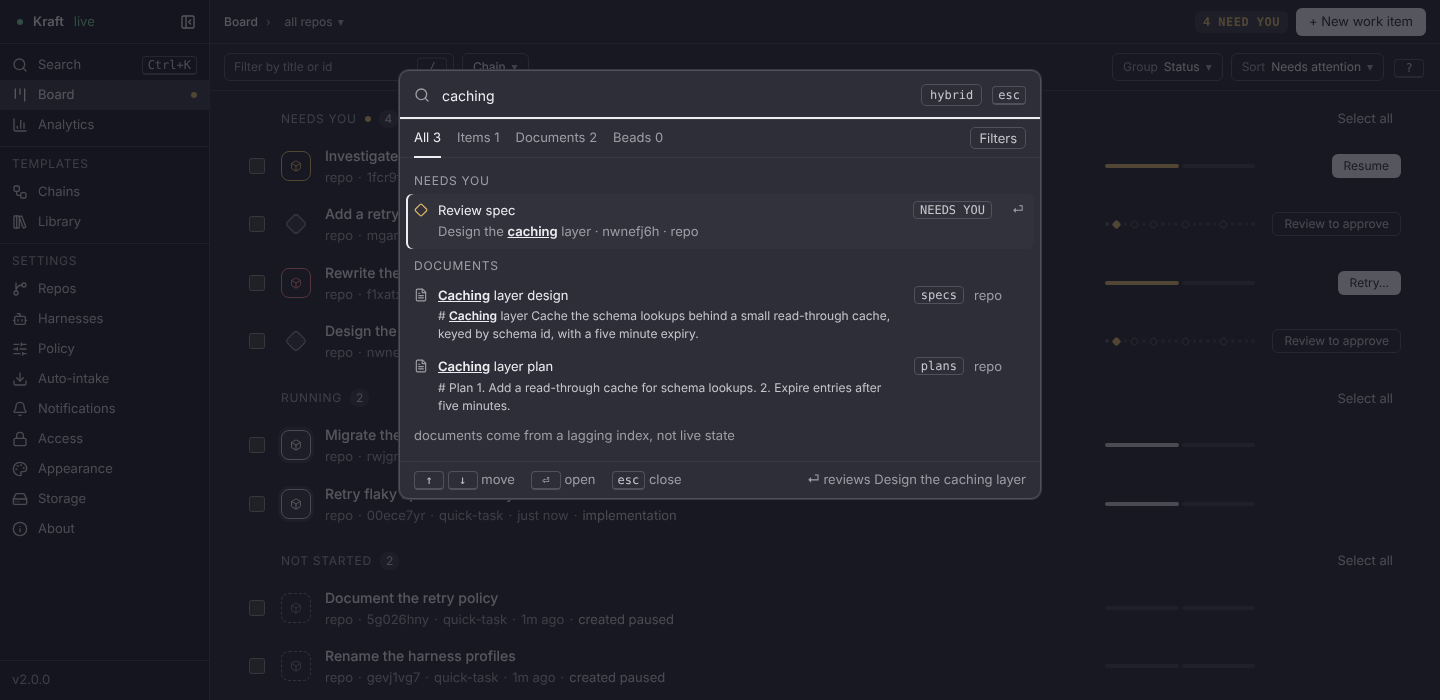
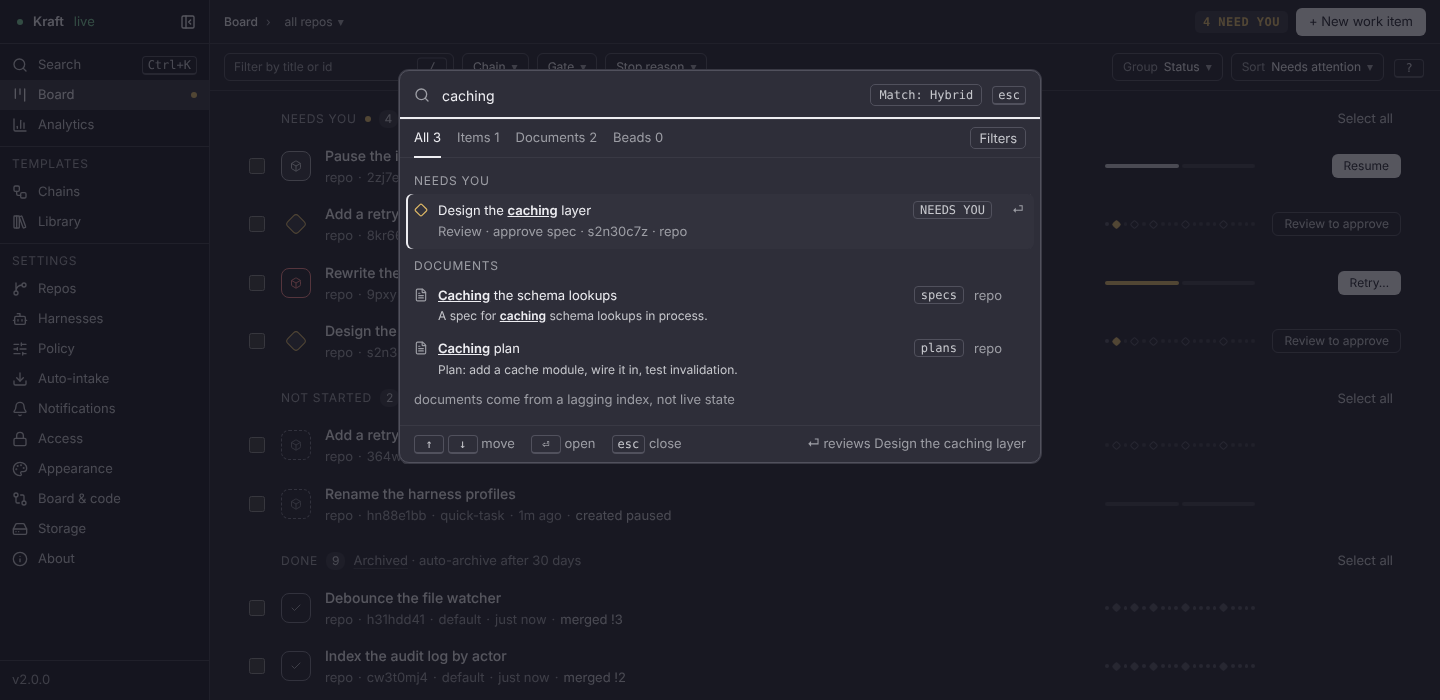
Retake the README and docs screenshots (third pass)
Claude-Session: https://claude.ai/code/session_01Hhz1yYCneaNnHUKepbRJvy

diff --git a/README.md b/README.md
@@ -31,10 +31,10 @@ proposes, and rehearses them with `--verify`.
 [What's new in 2.0](https://kraft-sdlc.dev/next/get-started/whats-new)
 has the rest, and what to check before you upgrade from 1.4.
 
-![The Kraft board in the dark graphite look: work items grouped by Needs you (a paused item with Resume, a failed one with Retry, and two waiting at a gate, each with its one button), Running, Not started, and Done, the unstarted items marked created paused, with a Select all link on every group and a ? shortcuts button in the toolbar](https://raw.githubusercontent.com/itsOmidKarami/kraft/main/.github/assets/board.png)
+![The Kraft board in the dark graphite look: filters for chain, gate and stop reason above work items grouped by Needs you (a paused item with Resume, a failed one with Retry, and two waiting at a gate, each with its one button), Running and Not started, the unstarted items marked created paused, with a Select all link on every group and a ? shortcuts button in the toolbar](https://raw.githubusercontent.com/itsOmidKarami/kraft/main/.github/assets/board.png)
 
 - **Gates where a human decides.** Kraft pauses at a spec, a plan, or a merge
-  request for your approval; reject with a note and the node that wrote it
+  request for your approval; request changes with a note and the node that wrote it
   tries again.
 - **Capped retries, not runaway loops.** Attempts, wall-clock time, and spend
   are all bounded. Hit a cap and the item stops and hands you the full trace
@@ -55,17 +55,25 @@ then approve, or request changes with a note that re-runs the node that wrote it
 
 ![The gate's review page headed Approve spec: Request changes and Approve buttons in the header, a Waiting for you mark, a line saying Approving starts plan with the gates left and the spend, the spec an agent wrote rendered below, and the files on the branch with one pending comment](https://raw.githubusercontent.com/itsOmidKarami/kraft/main/.github/assets/gate.png)
 
+**Read by name, not by id.** Nodes show as "approve spec" and "chain revision",
+and a chain too long to read whole gets an overview of all of it, one small
+glyph per node with a frame on the part in view, above the full-size graph. The
+board filters by chain, gate and stop reason, and retries or resumes a
+selection in one go. Settings keeps code and board preferences on their own
+Board & code page. Every page warns when Kraft is offline, and `?` lists the
+keyboard shortcuts.
+
 <table>
 <tr>
 <td width="60%">
 
-**Same app, phone-sized.** Below 768 pixels it switches to a phone layout on its own. A gate's card opens its review, so nothing is approved from the list. Reach it from another device through a tunnel; see
+**Same app, phone-sized.** Below 768 pixels it switches to a phone layout on its own. A gate's card opens its review, so nothing is approved from the list, and Chains edits drafts there too. Reach it from another device through a tunnel; see
 [Remote access](https://kraft-sdlc.dev/guides/remote-access).
 
 </td>
 <td width="40%">
 
-![The board at a 390px phone viewport, with bottom tab navigation and filter chips, and cards for a paused item with Resume, a failed one with Retry, and gate-waiting items whose Review to approve button opens the review](https://raw.githubusercontent.com/itsOmidKarami/kraft/main/.github/assets/mobile.png)
+![The board at a 390px phone viewport, with bottom tab navigation, filter chips and Chain, Gate and Stop reason menus, and cards for a paused item with Resume, a failed one with Retry, and gate-waiting items whose Review to approve button opens the review](https://raw.githubusercontent.com/itsOmidKarami/kraft/main/.github/assets/mobile.png)
 
 </td>
 </tr>

diff --git a/frontend/README.md b/frontend/README.md
@@ -239,16 +239,16 @@ Retake the ones whose screen changed, and all of them when a release is cut:
 
 | File | Size | Shows |
 |---|---|---|
-| `board.png` | 1440×700 | the board, grouped by status, with a Select all link on each group and the `?` shortcuts button in the toolbar: Needs you (paused, failed and two gates, each with its one button), Running, Not started (rows marked `created paused`), and the top of Done |
+| `board.png` | 1440×700 | the board, grouped by status, with the Chain, Gate and Stop reason filters, a Select all link on each group and the `?` shortcuts button in the toolbar: Needs you (paused, failed and two gates, each with its one button), Running and Not started (rows marked `created paused`); Done lies below the frame |
 | `gate.png` | 1440×700 | a work item at `spec_approval`: the review page headed Approve spec, with the Waiting for you mark, Request changes and Approve, the consequence line (what approving starts, gates left, spend) and the gate's spec rendered |
 | `search.png` | 1440×700 | Ctrl/⌘K with `caching` typed: an item and two documents, over the board |
-| `item.png` | 1440×700 | the same item's page, with the `spec_approval` gate selected: a Review and decide banner, the chain as a graph fitted beside the inspector, folded into pills (chain_revision) with a +N cue for what lies past the edge, and the inspector with the gate's files, open thread, what it decides on, and Read spec.md, Review changes, Approve and Reject… |
+| `item.png` | 1440×700 | the same item's page, with the `spec_approval` gate selected: a Review and decide banner, the chain as a graph beside the inspector, named by node ("approve spec") with the chain overview above it (one glyph per node, a frame on the part in view), and the inspector with the gate's files, open thread, what it decides on, and Read spec.md, Review changes, Approve and Request changes… |
 | `review.png` | 1440×700 | the review page of that item on `calc.py`, with a comment being written on the removed line and its replacement (the composer reads "Old 2 – new 2"), Must fix selected, over the Your review bar with Request changes, Approve and Finish review |
 | `analytics.png` | 1440×660 | the Analytics page: the Range, Repo and Chain menus, the four overview figures, Throughput by week, the Waiting at each gate table and the top of By node (times under a minute read `<1 min`) |
-| `chains.png` | 1440×700 | Templates › Chains on the `default` chain, published, with the `spec_approval` gate selected and its Overview, Config and YAML tabs in the inspector |
+| `chains.png` | 1440×700 | Templates › Chains on the `default` chain, published, under the chain overview, with the `spec_approval` gate selected and its Overview, Config and YAML tabs in the inspector |
 | `policy.png` | 1440×700 | Settings › Policy on its Limits tab, beside the Loops and Housekeeping tabs |
 | `setup.png` | 1440×700 | the setup wizard's first step, on a home with no repo connected; its intro says the first work item is created paused |
-| `mobile.png` | 390×844 | the board in the phone layout: a paused and a failed card, and a gate card whose Review to approve button opens its review |
+| `mobile.png` | 390×844 | the board in the phone layout, with its Chain, Gate and Stop reason menus: a paused, a gate and a failed card, and a gate card whose Review to approve button opens its review |
 
 All are the default look (graphite, dark, no accent), of a repo named `repo`
 and the items `just dev-seed` files, plus more filed in step 3. `setup` is the

diff --git a/docsite/content/index.md b/docsite/content/index.md
@@ -56,7 +56,7 @@ ui:
 :::landing-shot
 ---
 src: /assets/board.png
-alt: 'The Kraft board in the dark graphite look: work items grouped by Needs you (a paused item with Resume, a failed one with Retry, and two waiting at a gate, each with its one button), Running, Not started, and Done, the unstarted items marked created paused, with a Select all link on every group and a ? shortcuts button in the toolbar'
+alt: 'The Kraft board in the dark graphite look: filters for chain, gate and stop reason above work items grouped by Needs you (a paused item with Resume, a failed one with Retry, and two waiting at a gate, each with its one button), Running and Not started, the unstarted items marked created paused, with a Select all link on every group and a ? shortcuts button in the toolbar'
 crop: 210 0 1230 688
 width: 1440
 ---
@@ -66,7 +66,7 @@ width: 1440
 ::u-page-section
 ---
 title: A gate stops the chain where a person decides
-description: Read what the agent wrote, then approve, or reject with a note that re-runs the node that wrote it.
+description: Read what the agent wrote, then approve, or request changes with a note that re-runs the node that wrote it.
 ui:
   root: landing
 ---
@@ -74,7 +74,7 @@ ui:
 :::::landing-shot
 ---
 src: /assets/item.png
-alt: "The spec_approval gate on an item's page: waiting for you, the files it decides on, an open thread, reject to spec, and Read spec.md, Review changes, Approve and Reject buttons"
+alt: "The spec_approval gate on an item's page: waiting for you, the files it decides on, an open thread, reject to spec, and Read spec.md, Review changes, Approve and Request changes buttons"
 crop: 1034 214 384 474
 width: 1440
 ---
@@ -94,8 +94,8 @@ width: 1440
 :::::landing-shot
 ---
 src: /assets/mobile.png
-alt: 'The board at a 390px phone viewport: a failed item with a Retry button, and an item waiting at approve spec with a Review to approve button on the card'
-crop: 0 328 390 352
+alt: 'The board at a 390px phone viewport: an item waiting at approve spec with a Review to approve button on the card, and a failed item with a Retry button'
+crop: 0 366 390 358
 width: 390
 ---
 **On your phone.** The same board at the same address, laid out for a phone. Open a gate's review from the card's one button, and answer a question or retry a stopped item from its page. [The phone layout](/guides/day-to-day/kraft-on-a-phone) · [Reach it from your phone](/guides/run/remote-access)

diff --git a/docsite/content/5.reference/00.web-ui/2.item-page.md b/docsite/content/5.reference/00.web-ui/2.item-page.md
@@ -5,7 +5,7 @@ description: What an item's page shows, from the main action to the chain graph 
 
 An item's page shows one [work item](/concepts/vocabulary#work-item): its brief, its [chain](/concepts/vocabulary#chain) drawn as a graph, and an inspector for whatever you select. This page names the header's actions, the graph and the inspector's tabs, one heading for each part.
 
-![An item's page: a banner reading Waiting for your approval with a Review and decide button, the chain drawn as a graph with the spec_approval gate selected and a chain_revision pill standing for the nodes beyond it, a +13 cue for the nodes past the edge, and the inspector on the right showing the gate's files, an open thread, what it decides on, and the Read spec.md, Review changes, Approve and Reject buttons](/assets/item.png)
+![An item's page: a banner reading Waiting for your approval with a Review and decide button, the chain drawn as a graph of named nodes with the spec_approval gate selected, the chain overview above it (a glyph per node, framed on the part in view), and the inspector on the right showing the gate's files, an open thread, what it decides on, and the Read spec.md, Review changes, Approve and Request changes buttons](/assets/item.png)
 
 ## The page
 

diff --git a/docsite/content/1.get-started/2.first-work-item.md b/docsite/content/1.get-started/2.first-work-item.md
@@ -208,7 +208,7 @@ While it runs, `kraft view list` shows its status and node. To watch it work,
 open the board in your browser, or run `kraft view watch` in a third terminal. `watch` takes no ID, redraws a live board on every event, and
 holds its terminal until you press Ctrl-C. The web board looks like this:
 
-![The Kraft board in the dark graphite look: work items grouped by Needs you (a paused item with Resume, a failed one with Retry, and two waiting at a gate, each with its one button), Running, Not started, and Done, the unstarted items marked created paused, with a Select all link on every group and a ? shortcuts button in the toolbar](/assets/board.png)
+![The Kraft board in the dark graphite look: filters for chain, gate and stop reason above work items grouped by Needs you (a paused item with Resume, a failed one with Retry, and two waiting at a gate, each with its one button), Running and Not started, the unstarted items marked created paused, with a Select all link on every group and a ? shortcuts button in the toolbar](/assets/board.png)
 
 The [Web UI](/reference/web-ui) reference describes each screen in the picture.
 

diff --git a/docsite/content/5.reference/00.web-ui/1.board.md b/docsite/content/5.reference/00.web-ui/1.board.md
@@ -5,7 +5,7 @@ description: The board's four groups, what the button on a row does, the filters
 
 The board lists every [work item](/concepts/vocabulary#work-item), grouped by what it needs from you. This page names its groups, a row's buttons, the filters, and the side panel that opens when you click a row.
 
-![The Kraft board in the dark graphite look: work items grouped by Needs you (a paused item with Resume, a failed one with Retry, and two waiting at a gate, each with its one button), Running, Not started, and Done, the unstarted items marked created paused, with a Select all link on every group and a ? shortcuts button in the toolbar](/assets/board.png)
+![The Kraft board in the dark graphite look: filters for chain, gate and stop reason above work items grouped by Needs you (a paused item with Resume, a failed one with Retry, and two waiting at a gate, each with its one button), Running and Not started, the unstarted items marked created paused, with a Select all link on every group and a ? shortcuts button in the toolbar](/assets/board.png)
 
 ## The groups
 

diff --git a/docsite/content/5.reference/00.web-ui/6.templates-and-settings.md b/docsite/content/5.reference/00.web-ui/6.templates-and-settings.md
@@ -20,7 +20,7 @@ group is only the ones an agent or a check is working on now.
 
 **Chains** draws a chain as a graph, picked from the menu beside **Chains**.
 
-![The Chains screen on the default chain: its nodes as a graph, with the spec_approval gate selected and the inspector on the right, with Overview, Config and YAML tabs, showing the gate's message, document and reject-to node, and the header marking the chain published](/assets/chains.png)
+![The Chains screen on the default chain: its nodes as a graph under the chain overview, with the spec_approval gate selected and the inspector on the right, with Overview, Config and YAML tabs, showing the gate's message, document and reject-to node, and the header marking the chain published](/assets/chains.png)
 
 - Click a [node](/concepts/vocabulary#node) to see and change its settings in [the inspector](/reference/web-ui/item-page#the-inspector); double-click it
   to open its own view of steps and tasks. There, the strip above the steps draws the whole chain small,

diff --git a/docsite/content/3.guides/1.day-to-day/8.kraft-on-a-phone.md b/docsite/content/3.guides/1.day-to-day/8.kraft-on-a-phone.md
@@ -11,7 +11,7 @@ Your phone must be able to reach the server. See [Remote access](/guides/run/rem
 
 ## The layout
 
-![The board at a 390px phone viewport, with bottom tab navigation and filter chips, and cards for a paused item with Resume, a failed one with Retry, and gate-waiting items whose Review to approve button opens the review](/assets/mobile.png){width="300"}
+![The board at a 390px phone viewport, with bottom tab navigation, filter chips and Chain, Gate and Stop reason menus, and cards for a paused item with Resume, a failed one with Retry, and gate-waiting items whose Review to approve button opens the review](/assets/mobile.png){width="300"}
 
 The layout switches on its own when the window is narrower than 768 pixels, with
 no setting to turn on. It is the same app at the same address, so a link copied
